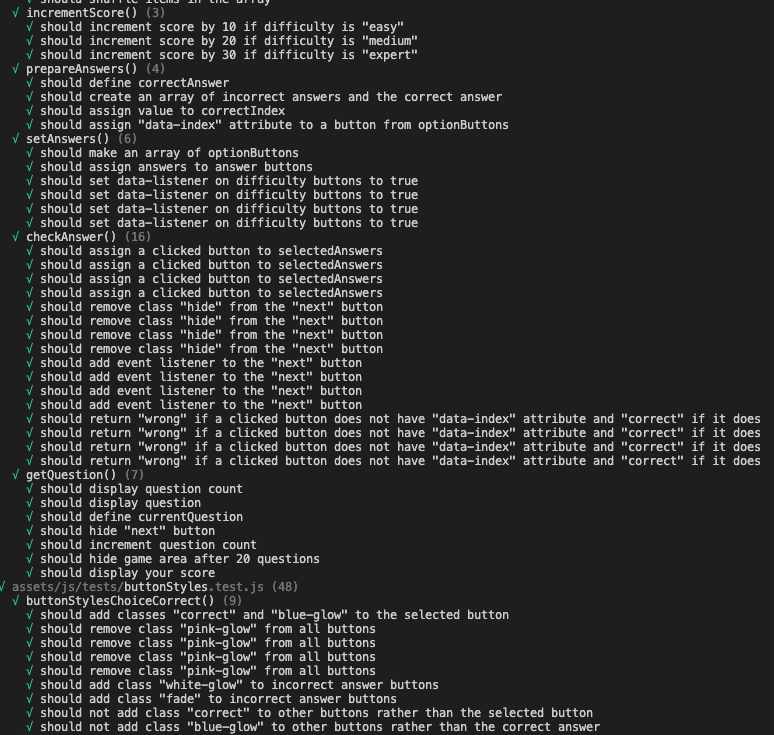
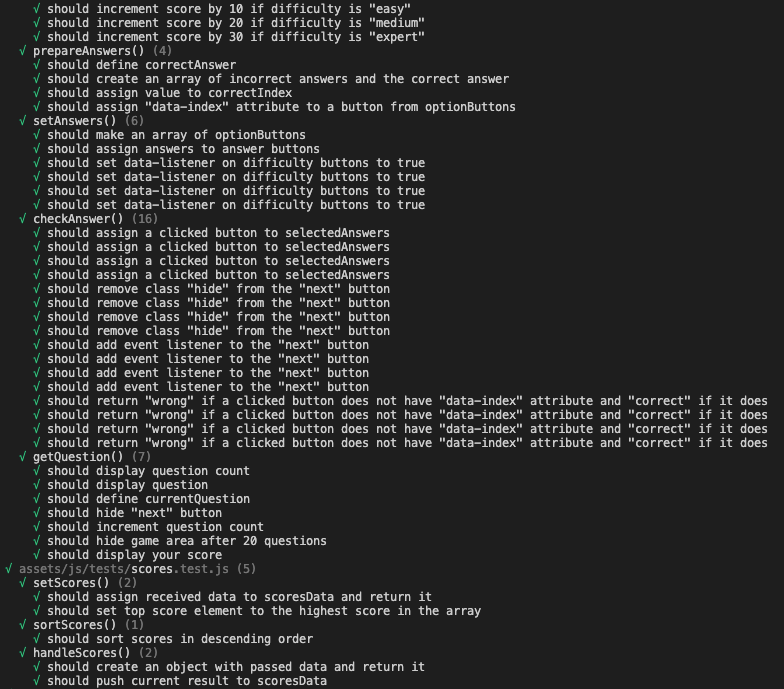
Update images for readme as the tests were updated

Changed region(s): [[0.0, 0.0, 0.9922, 1.0]]

diff --git a/assets/js/tests/modal.test.js b/assets/js/tests/modal.test.js
@@ -64,10 +64,6 @@ describe('highScores()', () => {
     it('should call confettiBurst()', () => {
         expect(confettiBurst).toBeCalled();
     })
-
-    it('should call sortScores()', () => {
-        expect(sortScores).toBeCalled();
-    })
 })
 
 describe('buildTable()', () => {

diff --git a/assets/js/tests/game.test.js b/assets/js/tests/game.test.js
@@ -17,7 +17,6 @@ document.write(htmlDocumentContent);
 global.$ = require('jquery')(window);
 global.$ = require('jquery');
 
-global.alert = vi.fn();
 global.location.assign = vi.fn();
 
 import {
